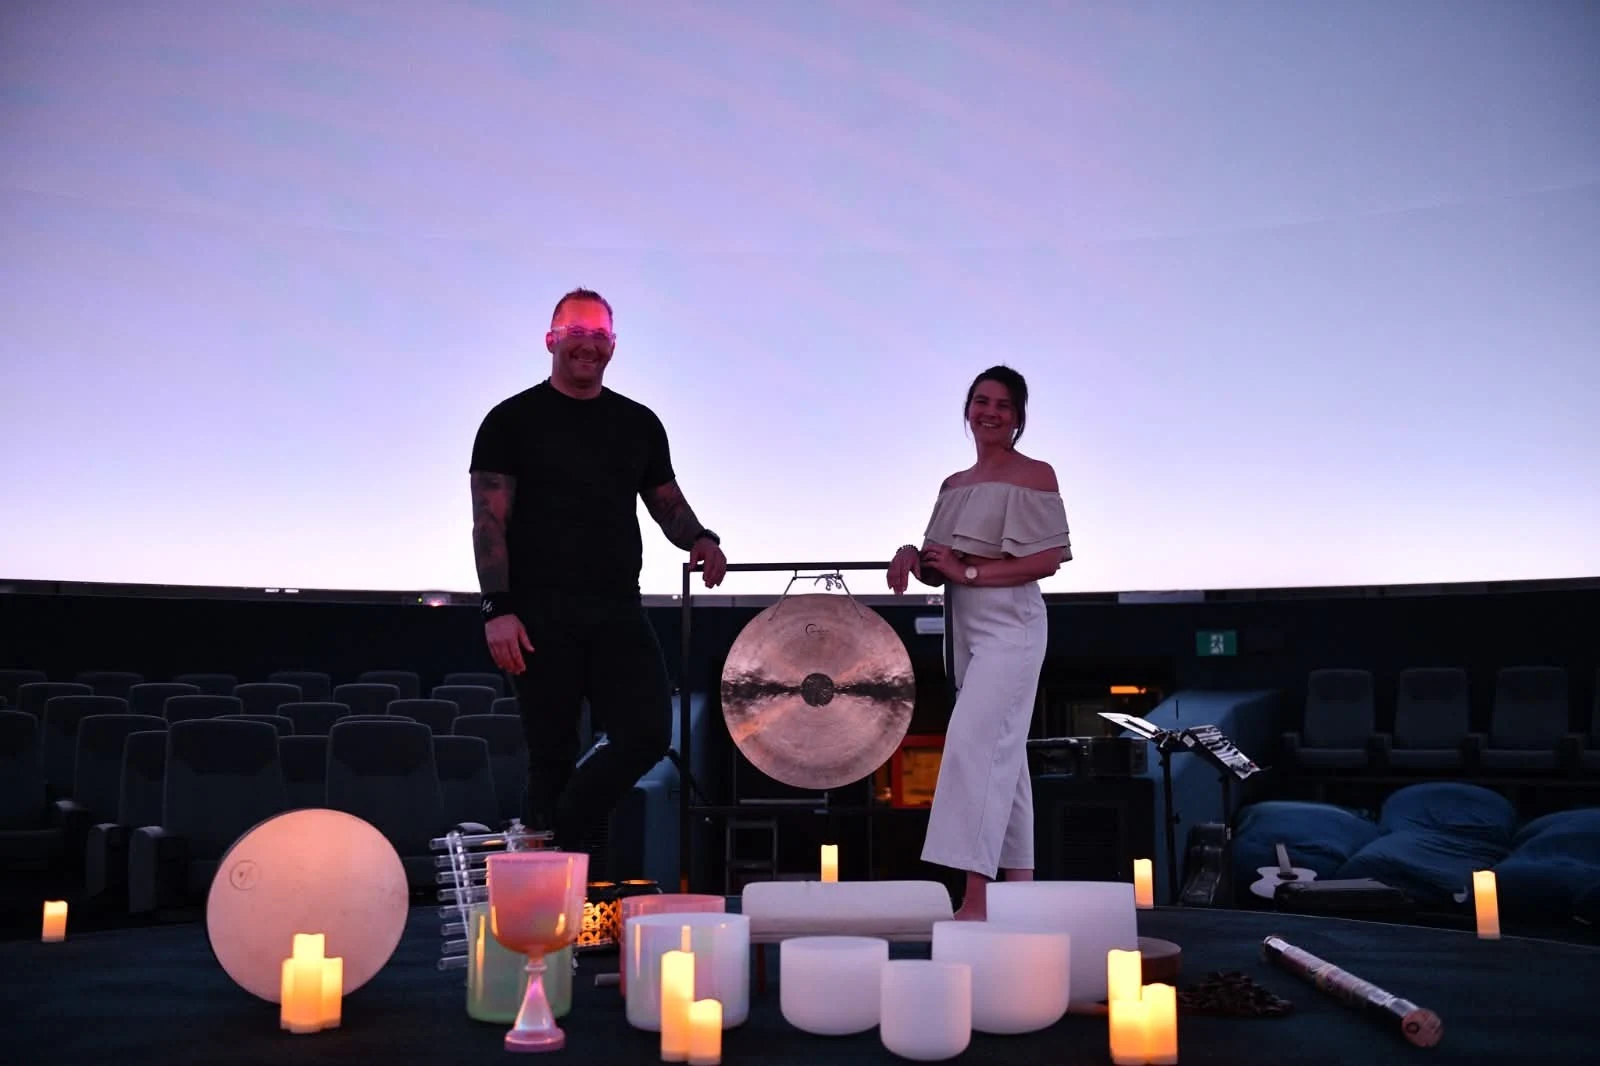
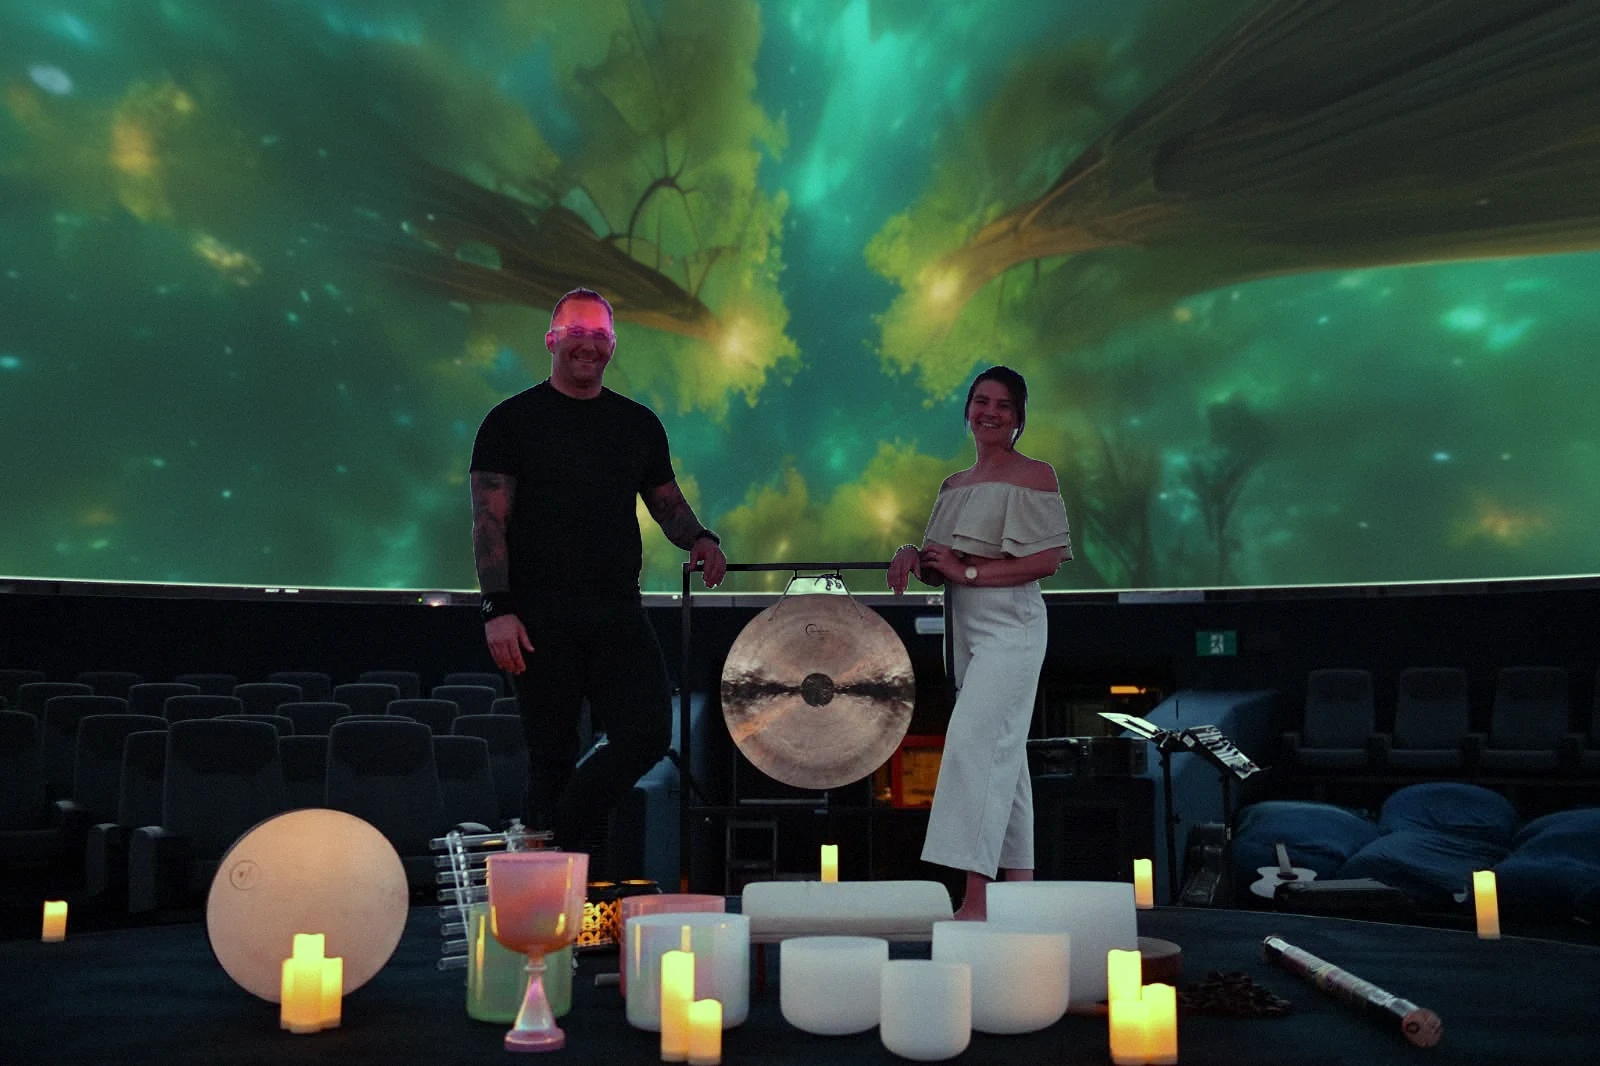
Guides photo: fireflies forest on the dome behind Jeanine and Matt
Claude-Session: https://claude.ai/code/session_018t2n2rLBsEkN6wzFoFyfiq

diff --git a/index.html b/index.html
@@ -362,7 +362,7 @@ html:not(.sky-live) .rise{opacity:1;transform:none}
     <h2 class="rise">Jeanine &amp; Matt</h2>
     <p class="lead rise">This is the first time The Mindful Mandala Wellness has brought a sound bath into the Zeidler Dome at TELUS World of Science - Edmonton. Jeanine and Matt have built the hour together with one aim, that the room feels safe enough for you to fully let go.</p>
     <figure class="guides-photo rise">
-      <img src="jeanine-and-matt-dome.webp" srcset="jeanine-and-matt-dome-900.webp 900w, jeanine-and-matt-dome.webp 1600w" sizes="(max-width: 900px) 100vw, 860px" alt="Jeanine and Matt standing in the Zeidler Dome with the gong and crystal bowls, the dome glowing softly above them" loading="lazy" decoding="async" width="1600" height="1066" />
+      <img src="jeanine-and-matt-dome.webp" srcset="jeanine-and-matt-dome-900.webp 900w, jeanine-and-matt-dome.webp 1600w" sizes="(max-width: 900px) 100vw, 860px" alt="Jeanine and Matt standing in the Zeidler Dome with the gong and crystal bowls, a forest of glowing trees and fireflies across the dome above them" loading="lazy" decoding="async" width="1600" height="1066" />
       <figcaption>Jeanine and Matt in the Zeidler Dome</figcaption>
     </figure>
     <div class="hosts rise">
